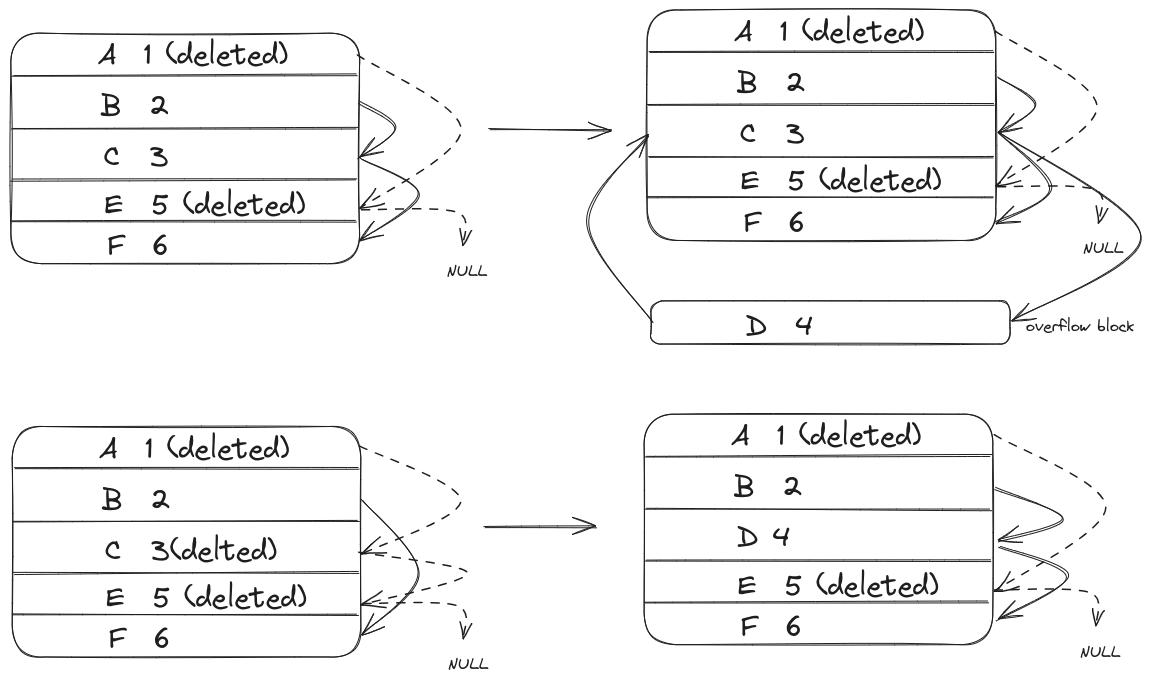
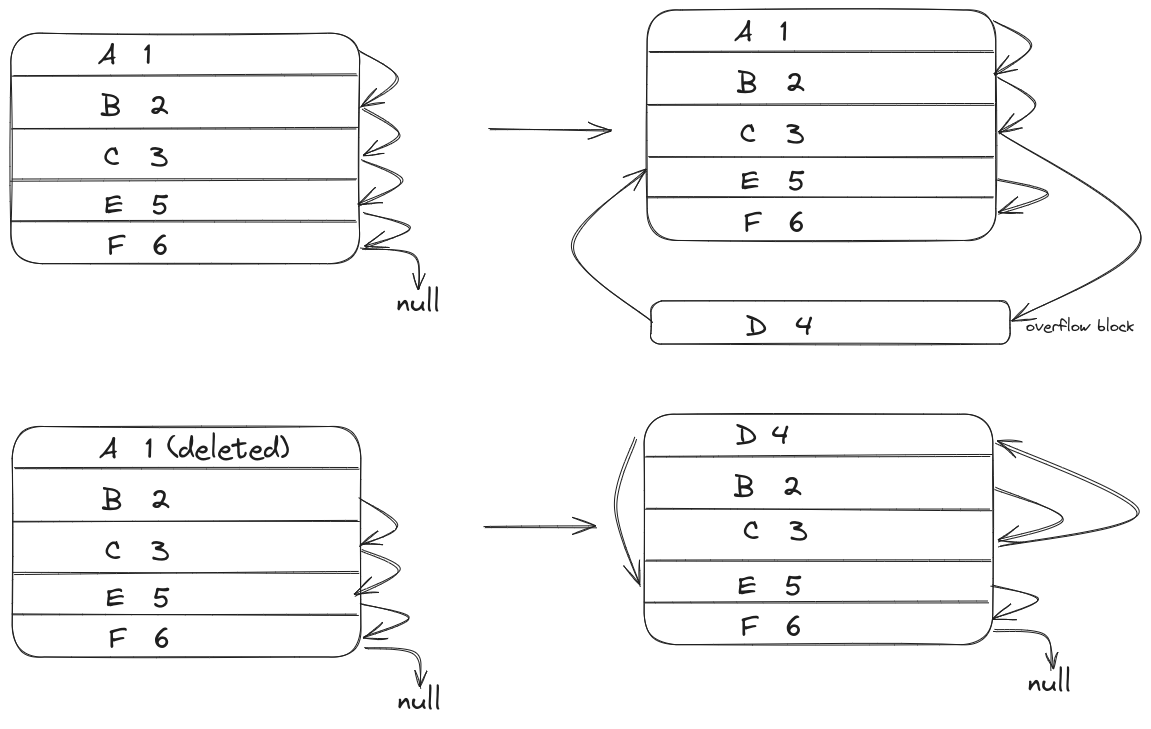
update database storage blog

diff --git a/_posts/2024-5-22-database-storage.md b/_posts/2024-5-22-database-storage.md
@@ -121,9 +121,9 @@ So, how does the DBMS know which block to store the record in? There are multipl
 
   - In sequential file organization, records are stored in a specific order based on a **search key**. Sequential file organization is useful for displaying and computing queries.
   - Each record stores a pointer to the next record, which comes after it sequentially. Here, the records are also stored as physically close as possible to reduce disk read time.
-  - For instance, say we have a relation stored in sequential file organization, and the search key is `Id`. If we want to insert a new record, "D," whose `Id` is 4, the DBMS first locates the record that comes before `Id` 4, which is 3. If 3 is deleted, 4 is stored there; if not, 4 is stored as a new overflow record, and 3 points to that overflow block.
+  - For instance, say we have a relation stored in sequential file organization, and the search key is `Id`. If we want to insert a new record, "D," whose `Id` is 4, the DBMS first locates the record that comes before `Id` 4, which is 3. if there is free space in the same block 4 is stored there; if not, 4 is stored as a new overflow block, and 3 points to that overflow block.
 
-  ![deletion](/assets/images/2024-5-22-database-storage/deletion.png)
+![deletion](/assets/images/2024-5-22-database-storage/deletion.png)
 
 - **Multitable Clustering File Organization:**
   - In multitable clustering file organization, records belonging to different relations are stored on a single page or block. This form of file organization helps when handling JOIN queries.
